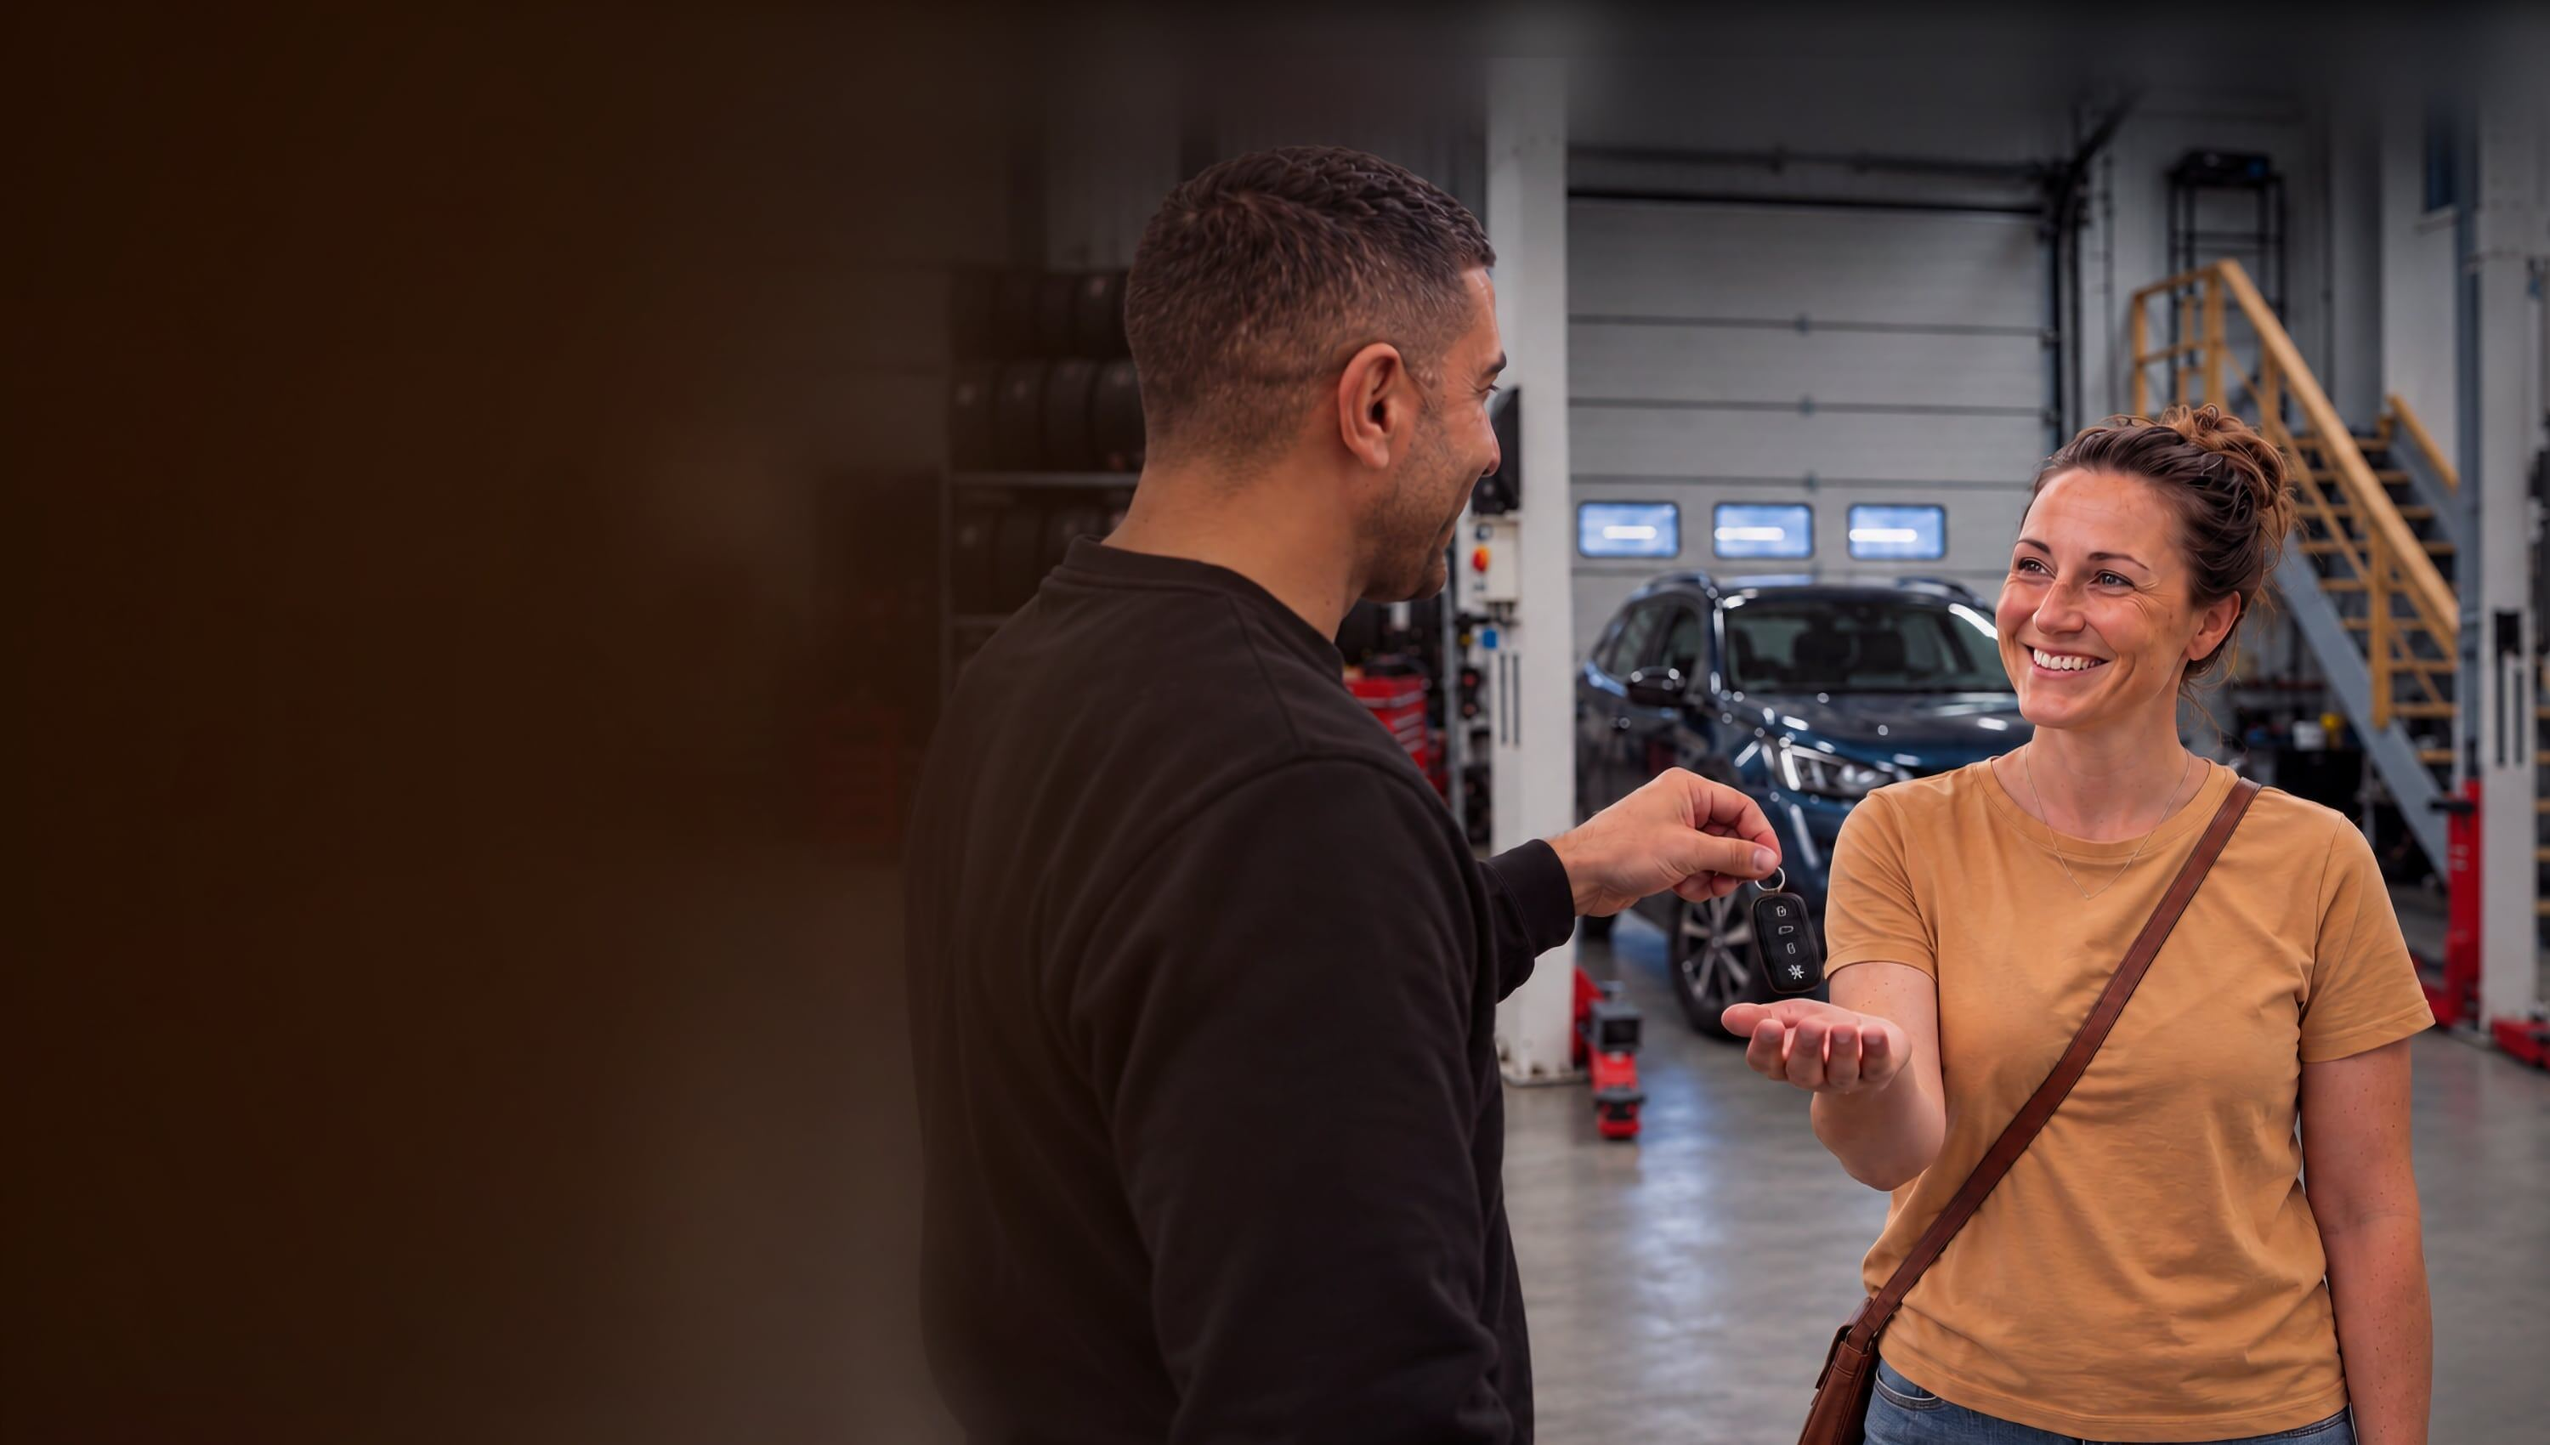
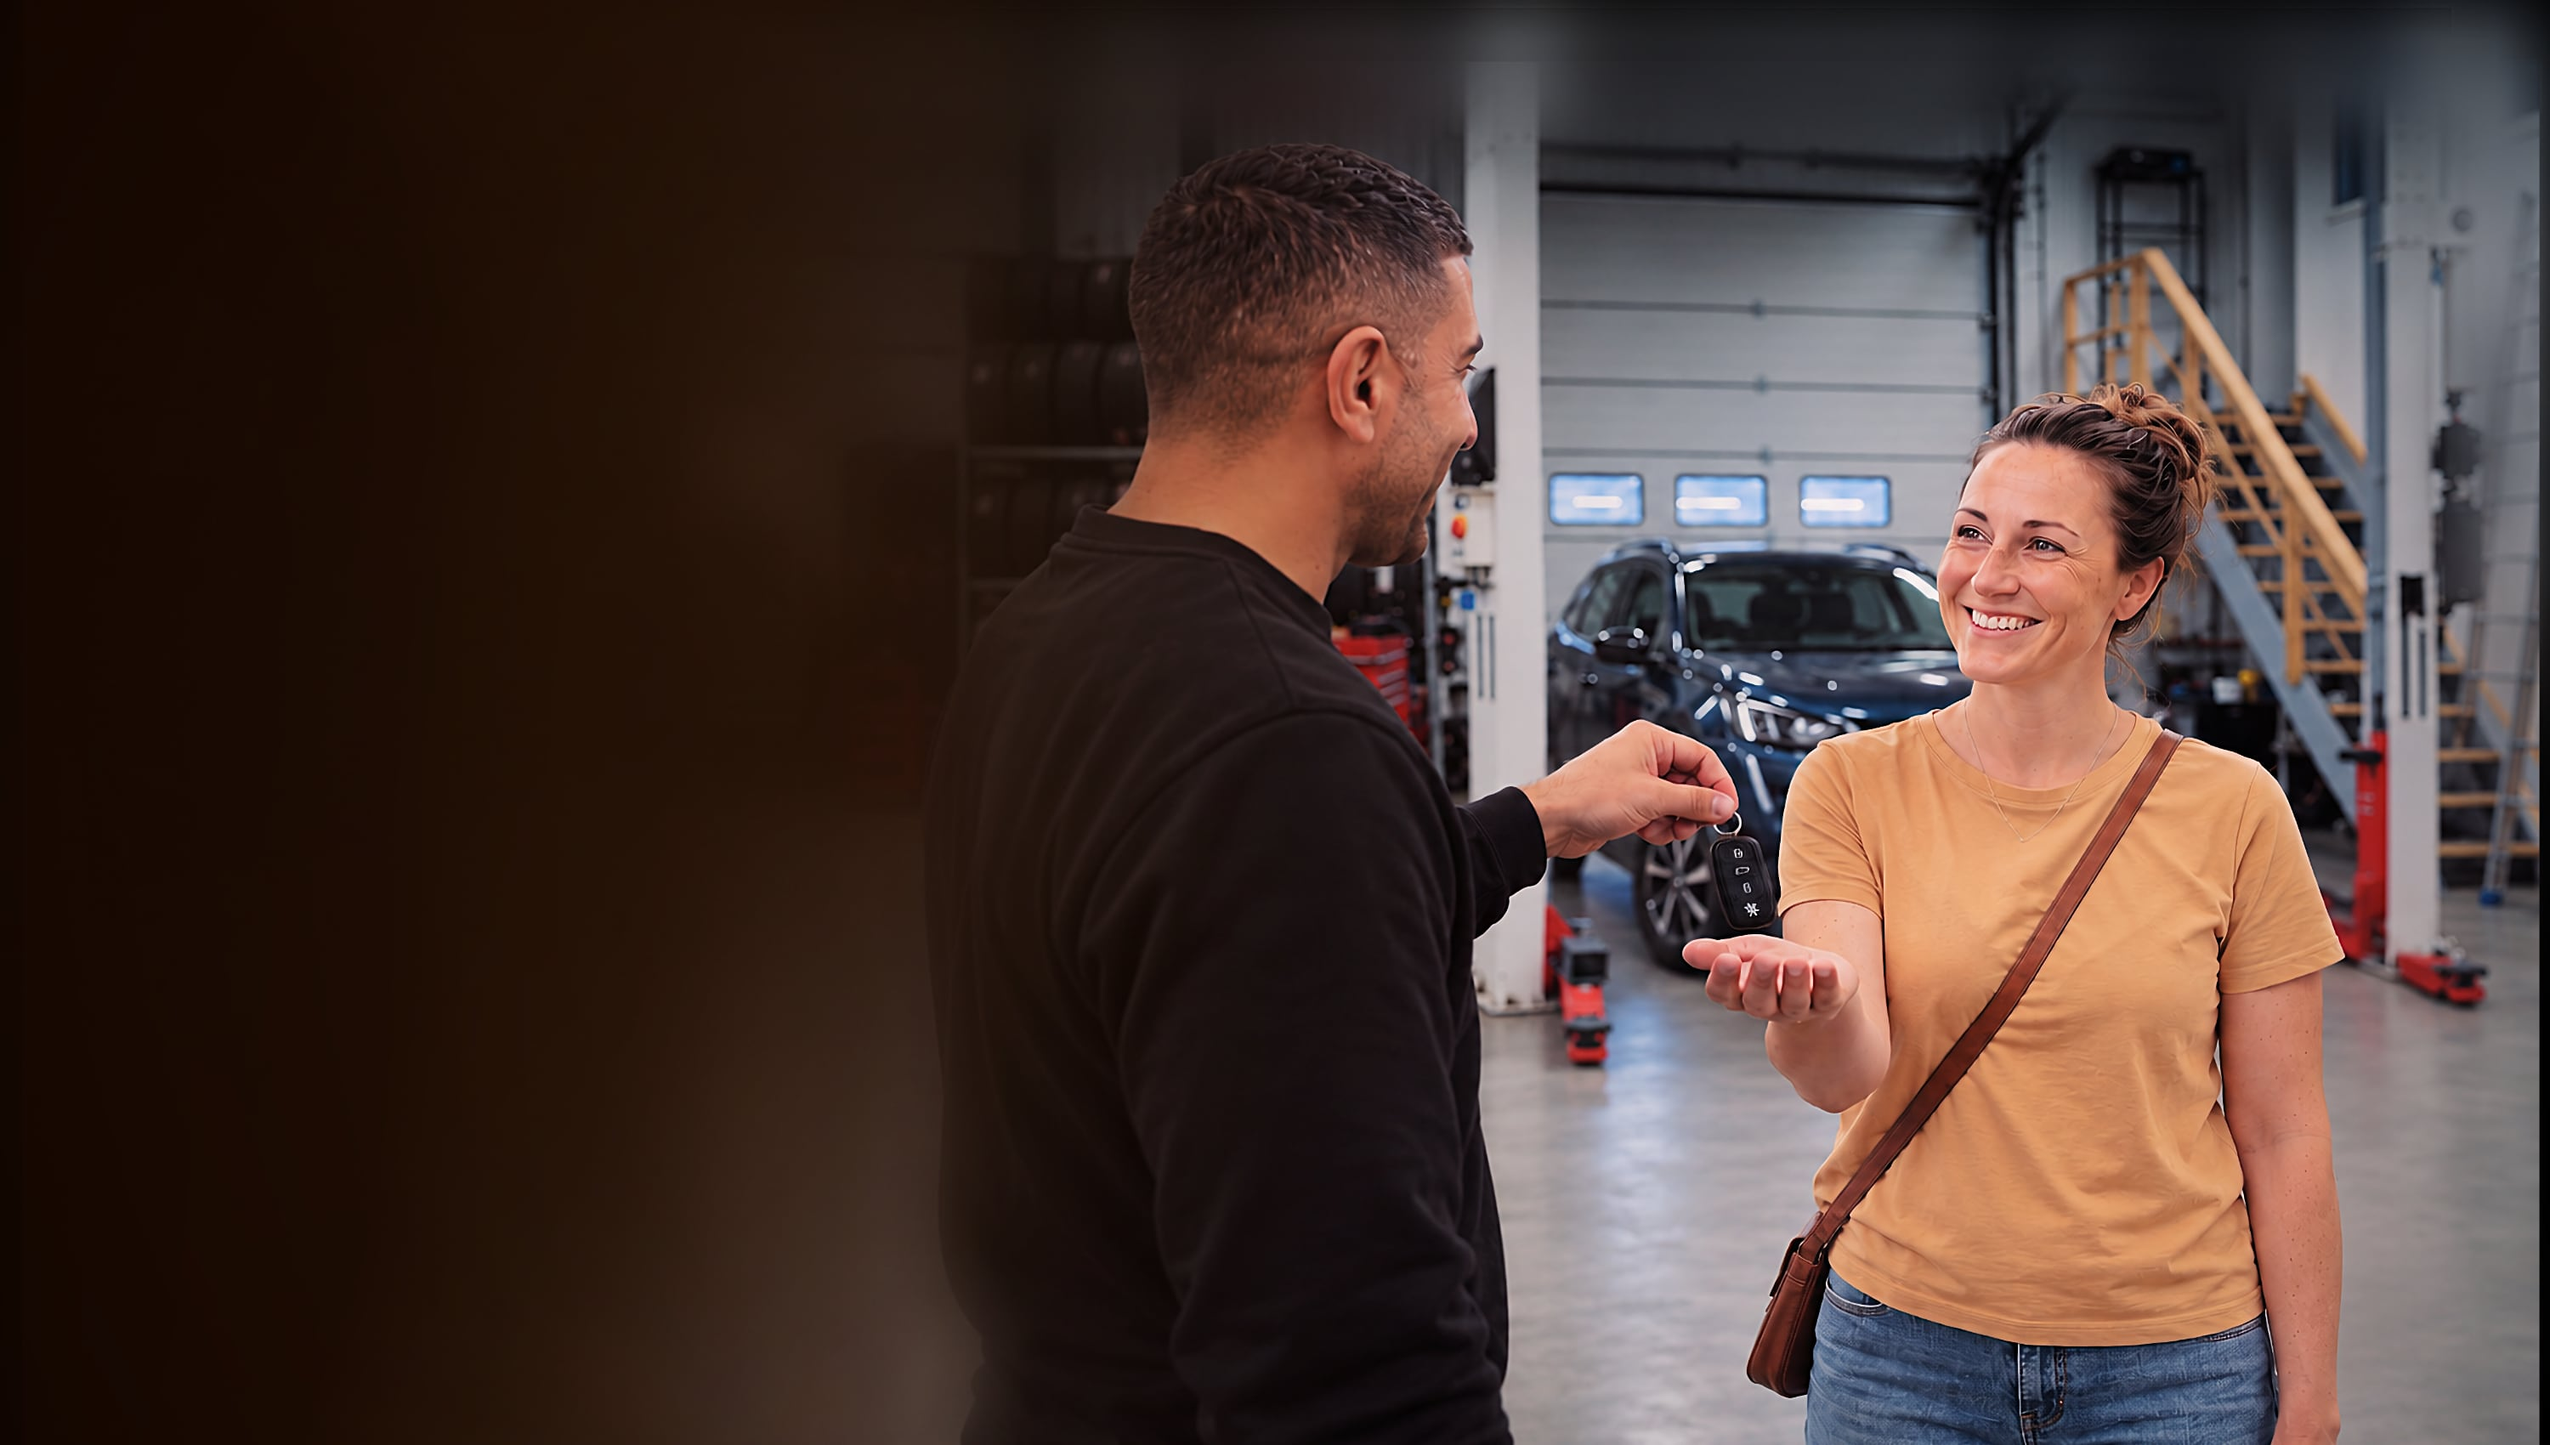
feat(landing): new key-handover slide, plain dark process band, faded photo beside the why-section

diff --git a/client/src/pages/landing/LandingPage.css b/client/src/pages/landing/LandingPage.css
@@ -43,14 +43,20 @@
 }
 
 /* Photo-backed reassurance */
-.landing-v2__process-section { color: #fff; isolation: isolate; overflow: hidden; position: relative; }
+.landing-v2__process-section { background: linear-gradient(135deg, var(--bb-color-ink-900) 0%, var(--bb-color-ink-950) 100%); color: #fff; }
 .landing-v2__process-section .bb-accent { color: var(--bb-color-teal-500); }
-.landing-v2__process-section > picture { height: 100%; inset: 0; position: absolute; width: 100%; z-index: -2; }
-.landing-v2__process-section > picture > img { height: 100%; object-fit: cover; object-position: center 53%; width: 100%; }
-.landing-v2__process-shade { background: none; inset: 0; position: absolute; z-index: -1; }
 
-/* Plain text reassurance (no photo) */
-.landing-v2__why-section { color: var(--bb-color-ink-950); margin-bottom: clamp(.75rem, 1.5vw, 1.25rem); }
+/* Text reassurance with a photo faded in from the page colour on the right
+   (desktop only; the photo is hidden at 900px and below, where the text spans the width). */
+.landing-v2__why-section { color: var(--bb-color-ink-950); isolation: isolate; margin-bottom: clamp(.75rem, 1.5vw, 1.25rem); overflow: hidden; position: relative; }
+.landing-v2__why-photo { bottom: 0; display: block; position: absolute; right: 0; top: 0; width: min(58%, 920px); z-index: -1; }
+.landing-v2__why-photo img { display: block; height: 100%; object-fit: cover; object-position: 62% center; width: 100%; }
+.landing-v2__why-photo {
+  -webkit-mask-composite: source-in;
+  -webkit-mask-image: linear-gradient(90deg, transparent 0%, #000 42%), linear-gradient(180deg, transparent 0%, #000 22%, #000 78%, transparent 100%);
+  mask-composite: intersect;
+  mask-image: linear-gradient(90deg, transparent 0%, #000 42%), linear-gradient(180deg, transparent 0%, #000 22%, #000 78%, transparent 100%);
+}
 .landing-v2__why-content { padding: 0.5rem 0 clamp(.6rem, 1vw, 1rem); }
 .landing-v2__why-content > div { max-width: 620px; }
 .landing-v2__why-content > div > p:not(.bb-eyebrow) { color: rgba(7, 20, 22, .78); font-size: var(--landing-type-body); line-height: var(--landing-leading-body); margin: 1rem 0 1.25rem; max-width: 500px; }
@@ -81,17 +87,15 @@
 
 /* Five-step process */
 .landing-v2__process-section { margin-bottom: clamp(3.2rem, 5vw, 5rem); min-height: 335px; }
-.landing-v2__process-shade { background: linear-gradient(90deg, rgba(0, 0, 0, 0.82) 0%, rgba(0, 0, 0, 0.58) 48%, rgba(0, 0, 0, 0.32) 100%); }
 .landing-v2__process-content { align-items: center; display: grid; gap: clamp(1.75rem, 3.5vw, 4rem); grid-template-columns: minmax(255px, .65fr) minmax(0, 1.4fr); min-height: 335px; padding: clamp(1.8rem, 3vw, 3rem) 0; }
 .landing-v2__process-content > div > p:not(.bb-eyebrow) { color: rgba(255, 255, 255, .78); font-size: var(--landing-type-support); line-height: var(--landing-leading-body); margin: 1rem 0 1.2rem; }
-.landing-v2__process-content h2,
-.landing-v2__process-content p,
-.landing-v2__process-content .bb-eyebrow,
-.landing-v2__process-content .bb-process-grid > li > b,
-.landing-v2__process-content .bb-process-grid > li > h3 { text-shadow: 0 1px 2px rgba(0, 0, 0, .35); }
-.landing-v2__process-content .bb-process-grid .bb-icon-bare svg { filter: drop-shadow(0 2px 3px rgba(0, 0, 0, .5)); }
+
+@media (max-width: 1200px) {
+  .landing-v2__why-photo { width: 46%; }
+}
 
 @media (max-width: 900px) {
+  .landing-v2__why-photo { display: none; }
   .landing-v2__process-content { grid-template-columns: 1fr; gap: 2rem; }
   .landing-v2__service-grid { grid-template-columns: repeat(3, minmax(0, 1fr)); row-gap: 1.75rem; }
   .landing-v2__service-grid > li,

diff --git a/client/src/pages/landing/LandingPage.tsx b/client/src/pages/landing/LandingPage.tsx
@@ -17,14 +17,14 @@ import heroPhoneWebp from '../../assets/images/home/landing-v2/landing-happy-cus
 import heroPhoneJpg from '../../assets/images/home/landing-v2/landing-happy-customer-key-hero-phone.jpg'
 import heroBirdsEyeWebp from '../../assets/images/home/landing-v2/landing-birds-eye-hero.webp'
 import heroBirdsEyeJpg from '../../assets/images/home/landing-v2/landing-birds-eye-hero.jpg'
+import customerInteractionWebp from '../../assets/images/home/landing-v2/landing-customer-interaction-background.webp'
+import customerInteractionJpg from '../../assets/images/home/landing-v2/landing-customer-interaction-background.jpg'
 import { TrustStrip } from '../../components/ui/TrustStrip'
 import { ChatDotsIcon } from '../../components/icons/ChatDotsIcon'
 import { ShieldIcon } from '../../components/icons/ShieldIcon'
 import { GalleryDockStrip } from '../../components/ui/GalleryDockStrip'
 import { GoogleReviewsCard } from '../../components/ui/GoogleReviewsCard'
 import { ContactFormCard } from '../../components/ui/ContactFormCard'
-import customerInteractionWebp from '../../assets/images/home/landing-v2/landing-customer-interaction-background.webp'
-import customerInteractionJpg from '../../assets/images/home/landing-v2/landing-customer-interaction-background.jpg'
 import { BUSINESS } from '../../data/business'
 import './LandingPage.css'
 
@@ -139,6 +139,10 @@ export default function LandingPage() {
       <TrustStrip items={trustItems} />
 
       <section className="landing-v2__why-section" aria-labelledby="landing-v2-why-title">
+        <picture className="landing-v2__why-photo" aria-hidden="true">
+          <source srcSet={customerInteractionWebp} type="image/webp" />
+          <img src={customerInteractionJpg} alt="" loading="lazy" width={2170} height={630} />
+        </picture>
         <div className="bb-wrap landing-v2__why-content">
           <div>
             <p className="bb-eyebrow">Om Brynäs Bilservice</p>
@@ -158,11 +162,6 @@ export default function LandingPage() {
       <GalleryDockStrip />
 
       <section className="landing-v2__process-section" aria-labelledby="landing-v2-process-title">
-        <picture aria-hidden="true">
-          <source srcSet={customerInteractionWebp} type="image/webp" />
-          <img src={customerInteractionJpg} alt="" />
-        </picture>
-        <div className="landing-v2__process-shade" aria-hidden="true" />
         <div className="bb-wrap landing-v2__process-content">
           <div>
             <p className="bb-eyebrow bb-eyebrow--dark">Så går det till</p>
